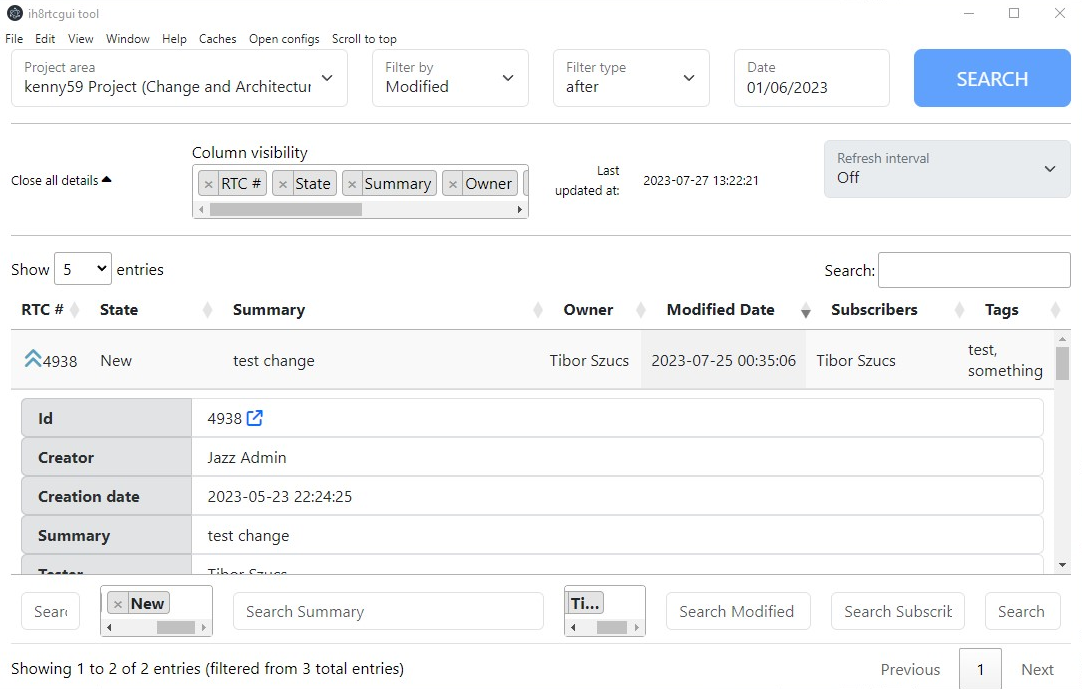
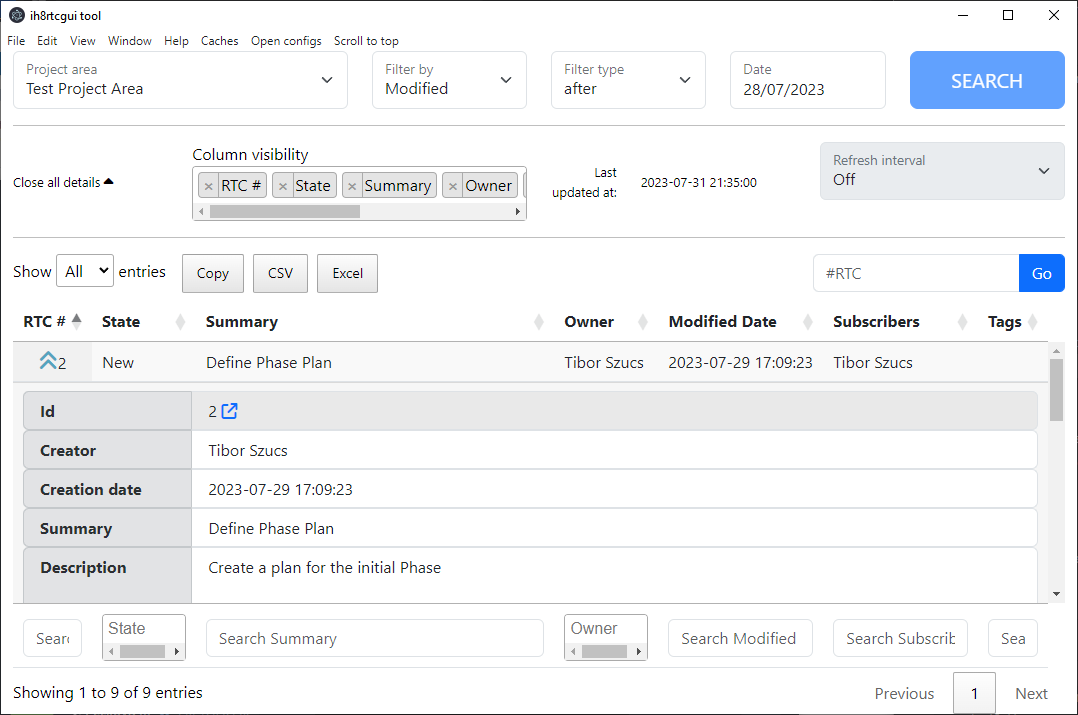
Update README

diff --git a/README.md b/README.md
@@ -1,5 +1,7 @@
 # ih8rtcgui tool
 
+Compatibility: IBM Engineering Lifecycle Management 7.0.2+
+
 Simple GUI tool for managing/keeping track of RTC items in a simplistic manner
 
 Disclaimer: This project is not intended as a full replacement of the original RTC (EWM) web interface, it is more of a way to quickly edit status/owner/add comment to a workitem or check something without having to log in every few hours. (This requires "Save details for automatic re-login?" to be checked on login page)  
@@ -10,12 +12,13 @@ Disclaimer: This project is not intended as a full replacement of the original R
 
 ## Features
 1. Query workitems by modified/created date (before, after, between) and further filter in table (be careful, before can be slow depending on your project area)
-2. Full-text search in table, dropdowns on columns where it makes sense
-3. Modify state and owner of workitem (right click)
-4. Add comment with basic formatting (bold, link)
-5. Automatic refresh (1 minute, 5 minutes etc) (it doesn't refresh if there is a workitem opened!)
-6. See details of workitem a little quicker than it would in RTC website
-7. Auto updater
+2. Jump to workitem by id
+3. Full-text search in table, dropdowns on columns where it makes sense
+4. Modify state and owner of workitem (right click)
+5. Add comment with basic formatting (bold, link)
+6. Automatic refresh (1 minute, 5 minutes etc) (it doesn't refresh if there is a workitem opened!)
+7. See details of workitem a little quicker than it would in RTC website
+8. Auto updater
 
 ## Installation
 1. Download installer from [Releases](https://github.com/kenny59/ih8rtcgui/releases)
